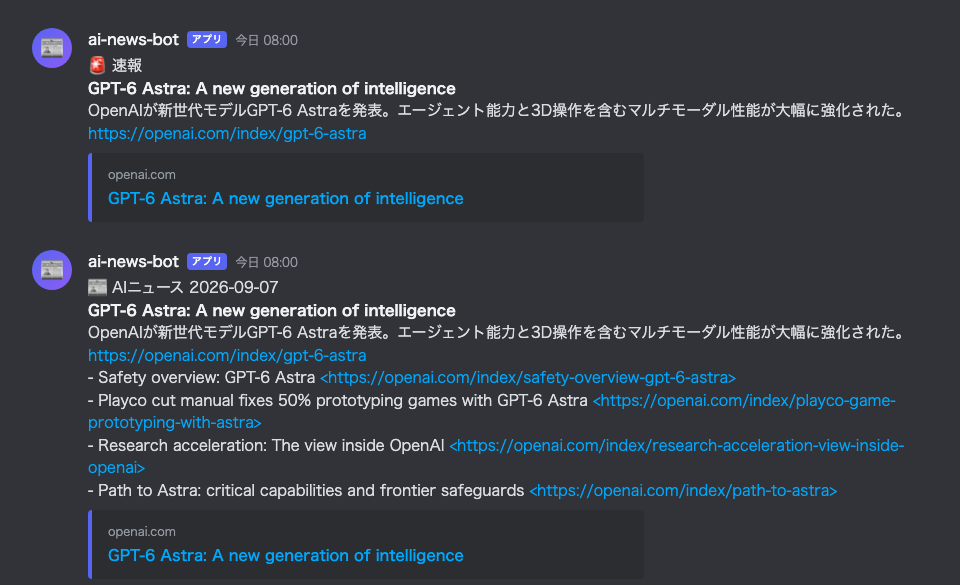
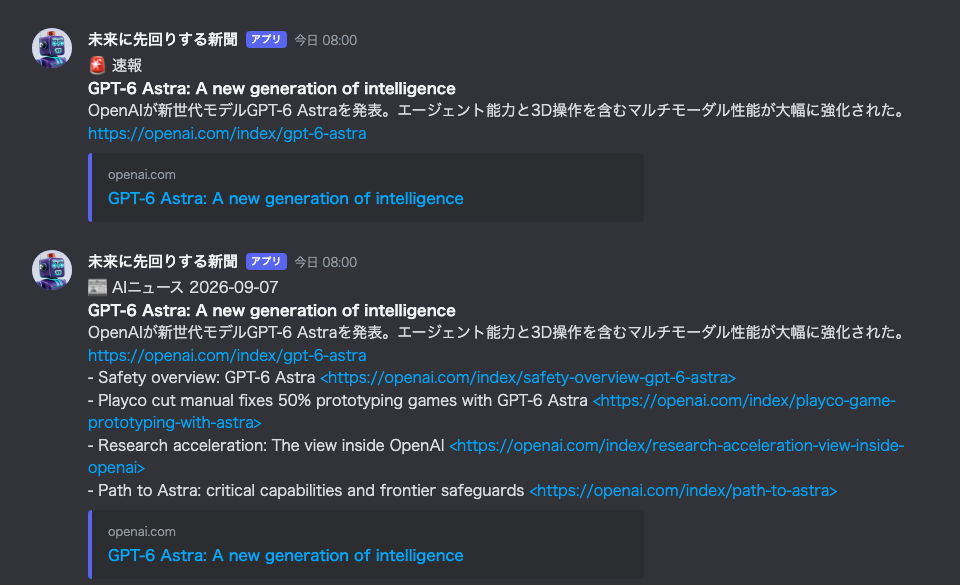
bot表示名を「未来に先回りする新聞」に設定・アイコン追加（.envで変更可能）

Changed region(s): [[0.0312, 0.0308, 0.375, 0.1231], [0.0312, 0.4308, 0.375, 0.4923]]

diff --git a/bot/poster.py b/bot/poster.py
@@ -42,10 +42,21 @@ def build_digest(articles: Iterable[dict[str, Any]], day: date, breaking: dict[s
 
 
 class Poster:
-    def __init__(self, store: Store, webhook_url: str, client: httpx.Client | None = None) -> None:
+    def __init__(self, store: Store, webhook_url: str, client: httpx.Client | None = None,
+                 username: str | None = None, avatar_url: str | None = None) -> None:
         self.store, self.webhook_url = store, webhook_url
+        # Webhook既定の名前・アイコンをメッセージ単位で上書きする（未指定なら既定のまま）。
+        self.username, self.avatar_url = username, avatar_url
         self.client = client or httpx.Client(timeout=15.0)
         self._owns_client = client is None
+
+    def _payload(self, content: str) -> dict[str, Any]:
+        payload: dict[str, Any] = {"content": content, "allowed_mentions": {"parse": []}}
+        if self.username:
+            payload["username"] = self.username
+        if self.avatar_url:
+            payload["avatar_url"] = self.avatar_url
+        return payload
 
     def close(self) -> None:
         if self._owns_client:
@@ -56,7 +67,7 @@ class Poster:
         for article_id in article_ids:
             self.store.update_article(article_id, state="uncertain")
         try:
-            response = self.client.post(self.webhook_url + "?wait=true", json={"content": content, "allowed_mentions": {"parse": []}}, timeout=15.0)
+            response = self.client.post(self.webhook_url + "?wait=true", json=self._payload(content), timeout=15.0)
         except httpx.ConnectError:
             # 接続自体に失敗＝リクエストは届いていないので、再送候補に戻して安全。
             for article_id in article_ids:
@@ -93,7 +104,7 @@ class Poster:
     def send_test(self) -> bool:
         """通常記事の状態には触れない固定疎通メッセージ。"""
         try:
-            response = self.client.post(self.webhook_url + "?wait=true", json={"content": "[TEST] ai-news-bot からの接続テストです。", "allowed_mentions": {"parse": []}}, timeout=15.0)
+            response = self.client.post(self.webhook_url + "?wait=true", json=self._payload("[TEST] 接続テストです。この名前とアイコンで配信されます。"), timeout=15.0)
             return 200 <= response.status_code < 300
         except httpx.RequestError:
             return False

diff --git a/tests/test_poster.py b/tests/test_poster.py
@@ -56,3 +56,29 @@ def test_digest_format_mentions_and_length():
     assert poster.send_digest([top], __import__("datetime").date.today())
     import json
     assert json.loads(seen[0].content)["allowed_mentions"] == {"parse": []}
+
+
+def test_payload_includes_display_name_and_avatar():
+    """表示名とアイコンURLを指定した場合、全投稿のpayloadに含まれる。"""
+    import json as _json
+    from bot.store import Store as _Store
+
+    seen = []
+
+    def handler(request):
+        seen.append(_json.loads(request.content))
+        return httpx.Response(200, json={"id": "m1"})
+
+    store = _Store()
+    article_id = store.add_article({"url": "https://example.com/x", "title": "x",
+                                    "source_id": "s", "source_category": "official"})
+    store.update_article(article_id, state="scored", score=95, headline_ja="見出し", summary_ja="概要")
+    client = httpx.Client(transport=httpx.MockTransport(handler))
+    poster = Poster(store, "https://discord.example/webhook", client,
+                    username="未来に先回りする新聞", avatar_url="https://example.com/icon.png")
+    assert poster.send_breaking(store.get_article(article_id))
+    assert poster.send_test()
+    for payload in seen:
+        assert payload["username"] == "未来に先回りする新聞"
+        assert payload["avatar_url"] == "https://example.com/icon.png"
+        assert payload["allowed_mentions"] == {"parse": []}

diff --git a/bot/config.py b/bot/config.py
@@ -26,6 +26,10 @@ class Settings:
     post_hour_jst: int = 8
     breaking_threshold: int = 90
     data_dir: Path = Path("/data")
+    # Discord上の表示名とアイコン。Webhook既定値をメッセージ単位で上書きするので、
+    # うしくんさん側でWebhookをどう作っても見た目が揃う。名前替えは.envの1行でできる。
+    bot_display_name: str = "未来に先回りする新聞"
+    bot_avatar_url: str = "https://raw.githubusercontent.com/Yanagi-1112/ai-news-bot/main/docs/icon.png"
 
 
 def mask_secret(value: str) -> str:
@@ -53,6 +57,8 @@ def load_settings(env_file: str | Path | None = None) -> Settings:
         post_hour_jst=hour,
         breaking_threshold=threshold,
         data_dir=Path(os.getenv("DATA_DIR", "/data")),
+        bot_display_name=os.getenv("BOT_DISPLAY_NAME", Settings.bot_display_name),
+        bot_avatar_url=os.getenv("BOT_AVATAR_URL", Settings.bot_avatar_url),
     )
 
 

diff --git a/bot/main.py b/bot/main.py
@@ -22,7 +22,8 @@ def build_runtime(*, memory: bool = False):
         store.mark_initialized()
     collector = Collector(store)
     curator = Curator(store, settings)
-    poster = Poster(store, settings.discord_webhook_url)
+    poster = Poster(store, settings.discord_webhook_url,
+                    username=settings.bot_display_name, avatar_url=settings.bot_avatar_url)
     return NewsScheduler(store, collector, curator, poster, settings, load_sources())
 
 

diff --git a/README.md b/README.md
@@ -1,6 +1,8 @@
-# ai-news-bot
+# ai-news-bot — 未来に先回りする新聞
 
 AIの「ワクワクする」ニュースだけを厳選して、Discordに1日1回届けるbot。
+Discord上では **「未来に先回りする新聞」** の名前とアイコンで投稿します
+（表示名・アイコンは `.env` の `BOT_DISPLAY_NAME` / `BOT_AVATAR_URL` でいつでも変更できます）。
 
 新モデルのリリース、驚きのベンチマーク、話題のデモやOSSなど、
 **技術者が「これ自分でも触ってみたい」と手を動かしたくなるニュース**をAIが選んで流します。
